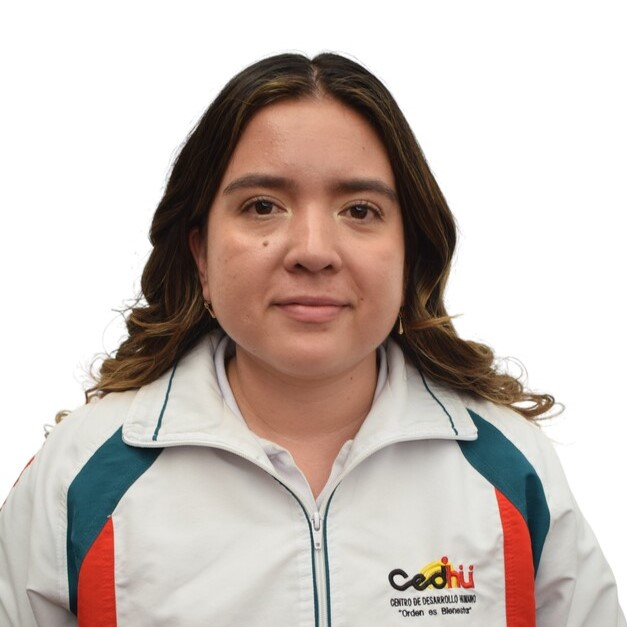
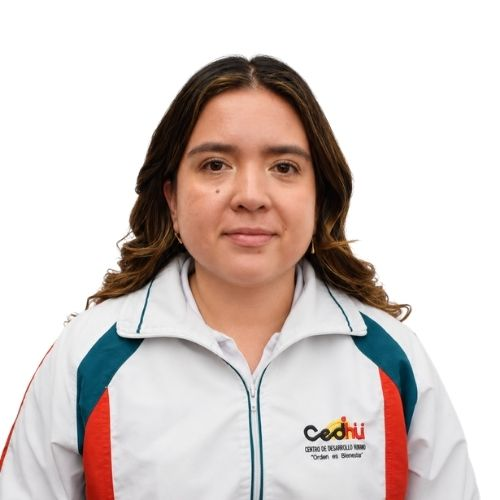
Se actualizan profes y coordinadora

diff --git a/core/templates/core/nosotros.html b/core/templates/core/nosotros.html
@@ -553,14 +553,14 @@ CEDHU{% endblock %} {% block content %}
             <div class="staff-card-inner">
               <div class="staff-card-front">
                 <img
-                  src="{% static 'core/img/donhugo.avif' %}"
-                  alt="Coordinador 3"
+                  src="{% static 'core/img/Stephanie-Sanchez.jpg' %}"
+                  alt="Stephanie Sanchez"
                 />
-                <h4>Hugo Ernesto Ruiz Fajardo</h4>
-                <p></p>
+                <h4>Stephanie Sánchez Yaquibe</h4>
+                <p>Coordinadora Convivencial Bachillerato</p>
               </div>
               <div class="staff-card-back">
-                <p>COORDINADOR DE SEGURIDAD.</p>
+                <p>Coordinadora convivencial Bachillerato.</p>
               </div>
             </div>
           </div>
